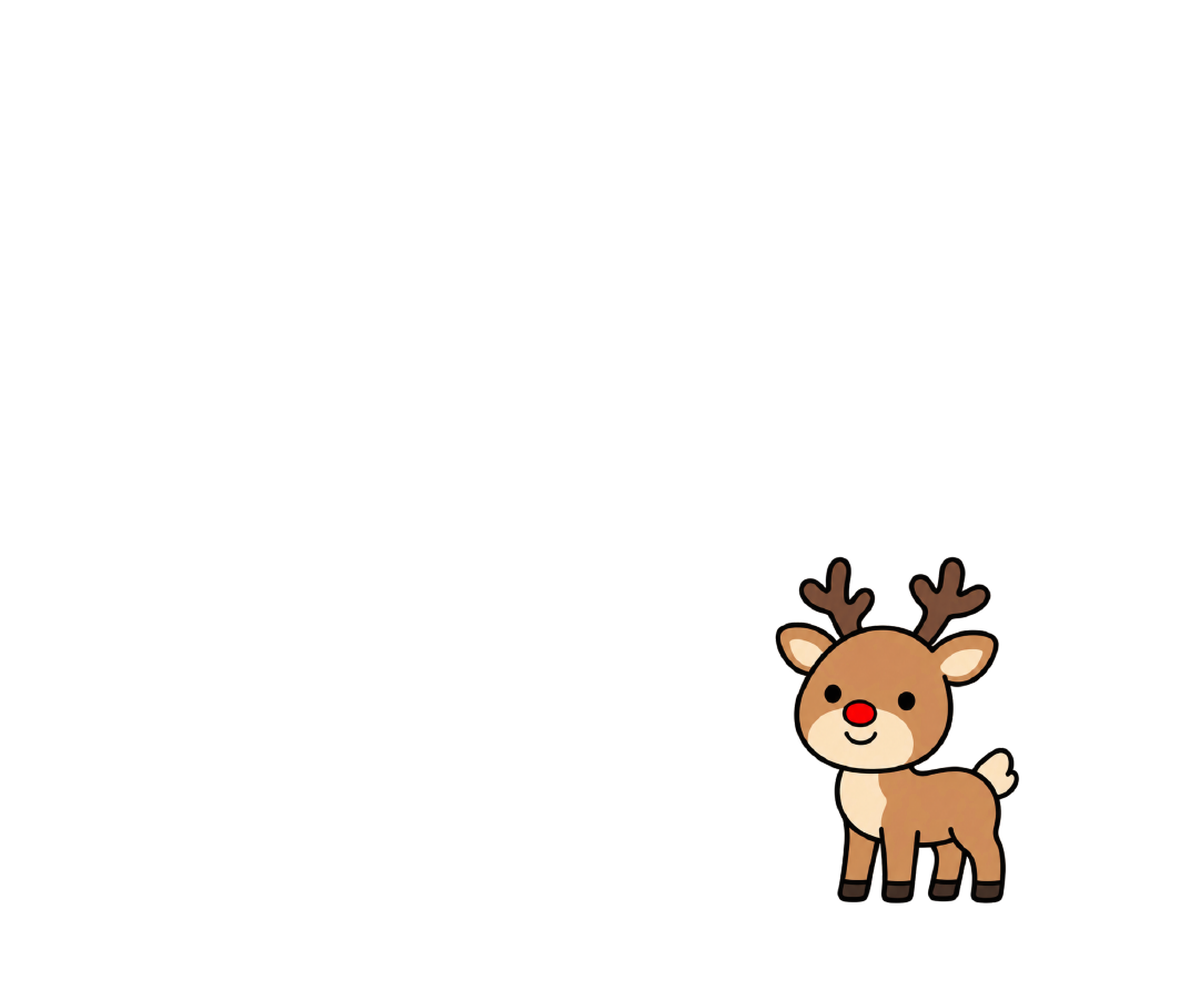
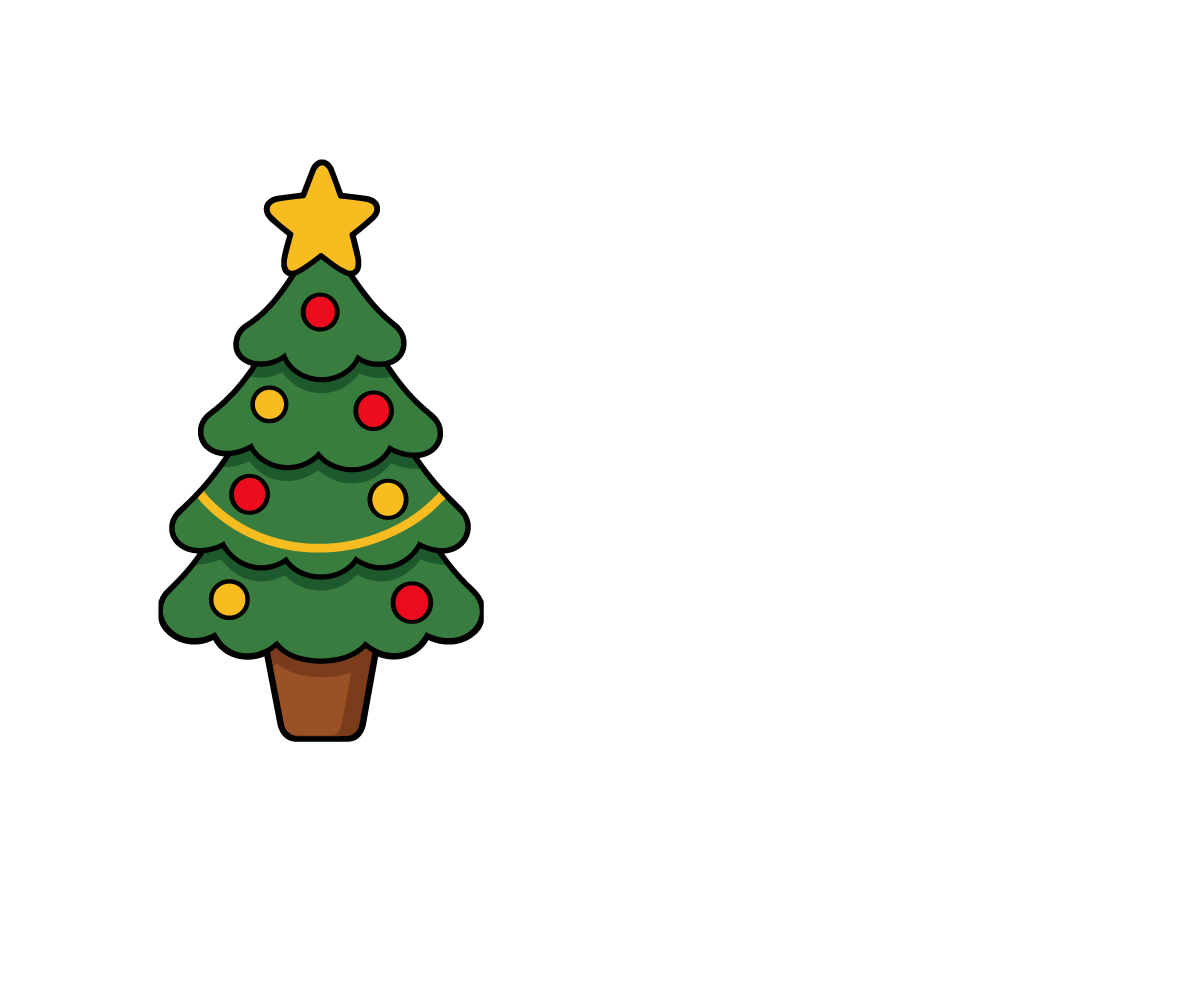
배경 추가: 크리스마스 트리·눈(소품 5캐시), 크리스마스 거실(그림 바탕 5캐시) · 루돌프 파일 bg_002로 교체 · 그림 바탕도 신상 노출
Claude-Session: https://claude.ai/code/session_018WPAE2ej61oo4ShAUNkDfg

Changed region(s): [[0.1233, 0.155, 0.4008, 0.744], [0.6475, 0.558, 0.8633, 0.899]]

diff --git a/items.js b/items.js
@@ -442,9 +442,14 @@ const BGS=[
   {id:'bg_dsky',  hex:'#95C2DA',name:'진하늘', cost:1},
   {id:'bg_green', hex:'#55A67E',name:'그린', cost:1},
   {id:'bg_pink2', hex:'#FFB8B9',name:'핑크', cost:1},
-  // ▼ 이미지 배경 (1200×1500 · tz/tx/ty = 상점 타일 썸네일 확대·이동)
-  //   deco:true = 배경 소품(투명 PNG) → 바탕 위에 여러 개 겹쳐 올림 / 없으면 바탕(하나만, base=로딩·투명 부분 색)
-  {id:'bg_img_001',img:CHARP+'bg/bg_001.png',base:'#F6EFE4',name:'루돌프',cost:10,d:'2026-11-07',tz:3.57,tx:-0.2475,ty:-0.23,deco:true},
+  // ▼ 이미지 배경 (1200×1000 · 6:5 무대 · tz/tx/ty = 상점 타일 썸네일 확대·이동)
+  //   deco:true = 배경 소품(투명 PNG) → 바탕 위에 여러 개 겹쳐 올림 / 없으면 그림 바탕(하나만 · 컬러 바탕과 같이 못 씀, base=로딩·투명 부분 색)
+  // ▼ 배경 소품
+  {id:'bg_img_001',img:CHARP+'bg/bg_002.png',base:'#F6EFE4',name:'루돌프',cost:10,d:'2026-11-07',tz:3.65,tx:-0.226,ty:-0.2405,deco:true},   // 파일은 bg_002 (id는 보유 유지용으로 그대로)
+  {id:'bg_tree_001',img:CHARP+'bg/bg_001.png',base:'#F6EFE4',name:'크리스마스 트리',cost:5,d:'2026-11-07',tz:1.75,tx:0.2325,ty:0.0495,deco:true},
+  {id:'bg_snow_001',img:CHARP+'bg/bg_003.png',base:'#AFC9DC',name:'눈',cost:5,d:'2026-11-07',tz:1,tx:0,ty:0,deco:true},
+  // ▼ 그림 바탕
+  {id:'bg_art_001',img:CHARP+'bg/bg_art_001.png',base:'#FBE9D2',name:'크리스마스 거실',cost:5,d:'2026-11-07',tz:1,tx:0,ty:0},
 ];
 
 

diff --git a/index.html b/index.html
@@ -5348,7 +5348,7 @@ function drawItems(){
   }
   else if(dressSlot==='new'){
     // 신상: 최근 NEW_DAYS일 안에 올린 아이템만, 최신순
-    const list=byNewest(allItemsFlat().filter(en=>!en.bg||en.it.deco)   // 배경은 소품만 (바탕 컬러·이미지는 신상에 안 띄움)
+    const list=byNewest(allItemsFlat().filter(en=>!en.bg||en.it.deco||en.it.img)   // 배경은 소품·그림 바탕만 (컬러 바탕은 신상에 안 띄움)
       .map(en=>Object.assign(en.it,{_en:en})).filter(isNewItem),true).map(it=>it._en);
     $('#items').innerHTML = list.length ? list.map(en=>flatTile(m,en)).join('')
       : `<div class="dempty">최근 2주 동안 새로 나온 아이템이 없어요<br>다음 신상을 기다려주세요 ✨</div>`;
